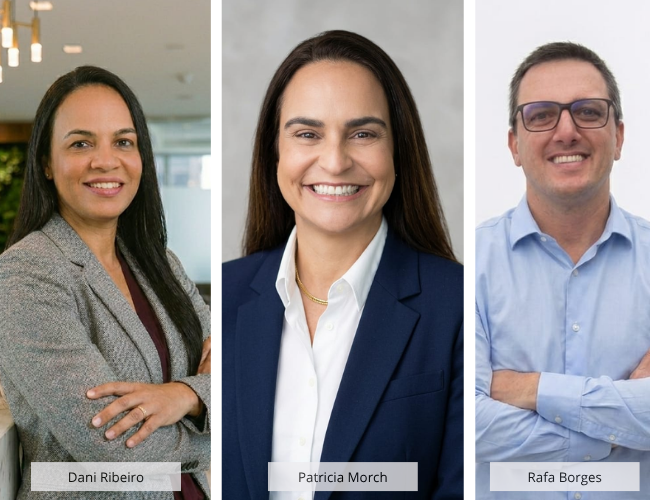
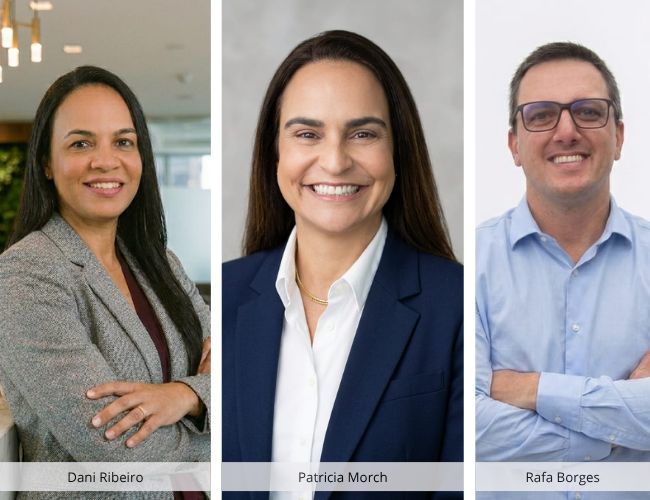
Fix who we are image display

diff --git a/src/components/WhoWeAreSection.tsx b/src/components/WhoWeAreSection.tsx
@@ -167,7 +167,7 @@ export default function WhoWeAreSection() {
               height: "500px",
               minHeight: "500px",
               borderRadius: "14px",
-              objectFit: "cover",
+              objectFit: "contain",
               boxShadow: "0 24px 70px rgba(17,24,39,0.14)",
               opacity: visible ? 1 : 0,
               transform: visible ? "translateX(0) scale(1)" : "translateX(-40px) scale(1.05)",
